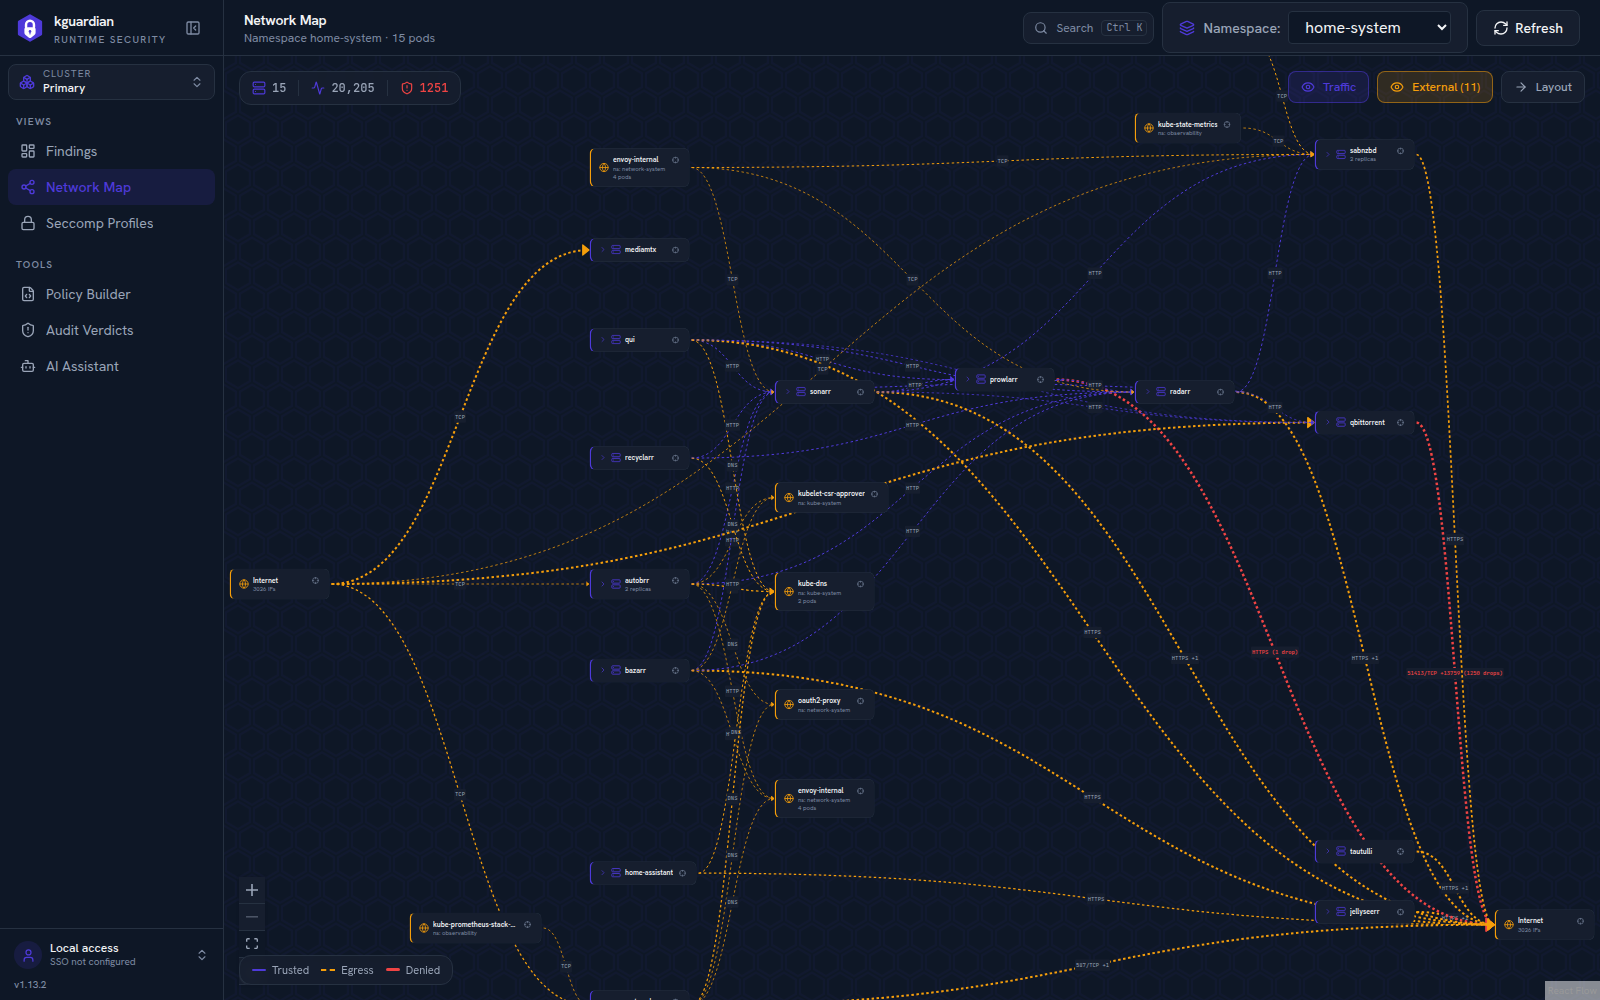
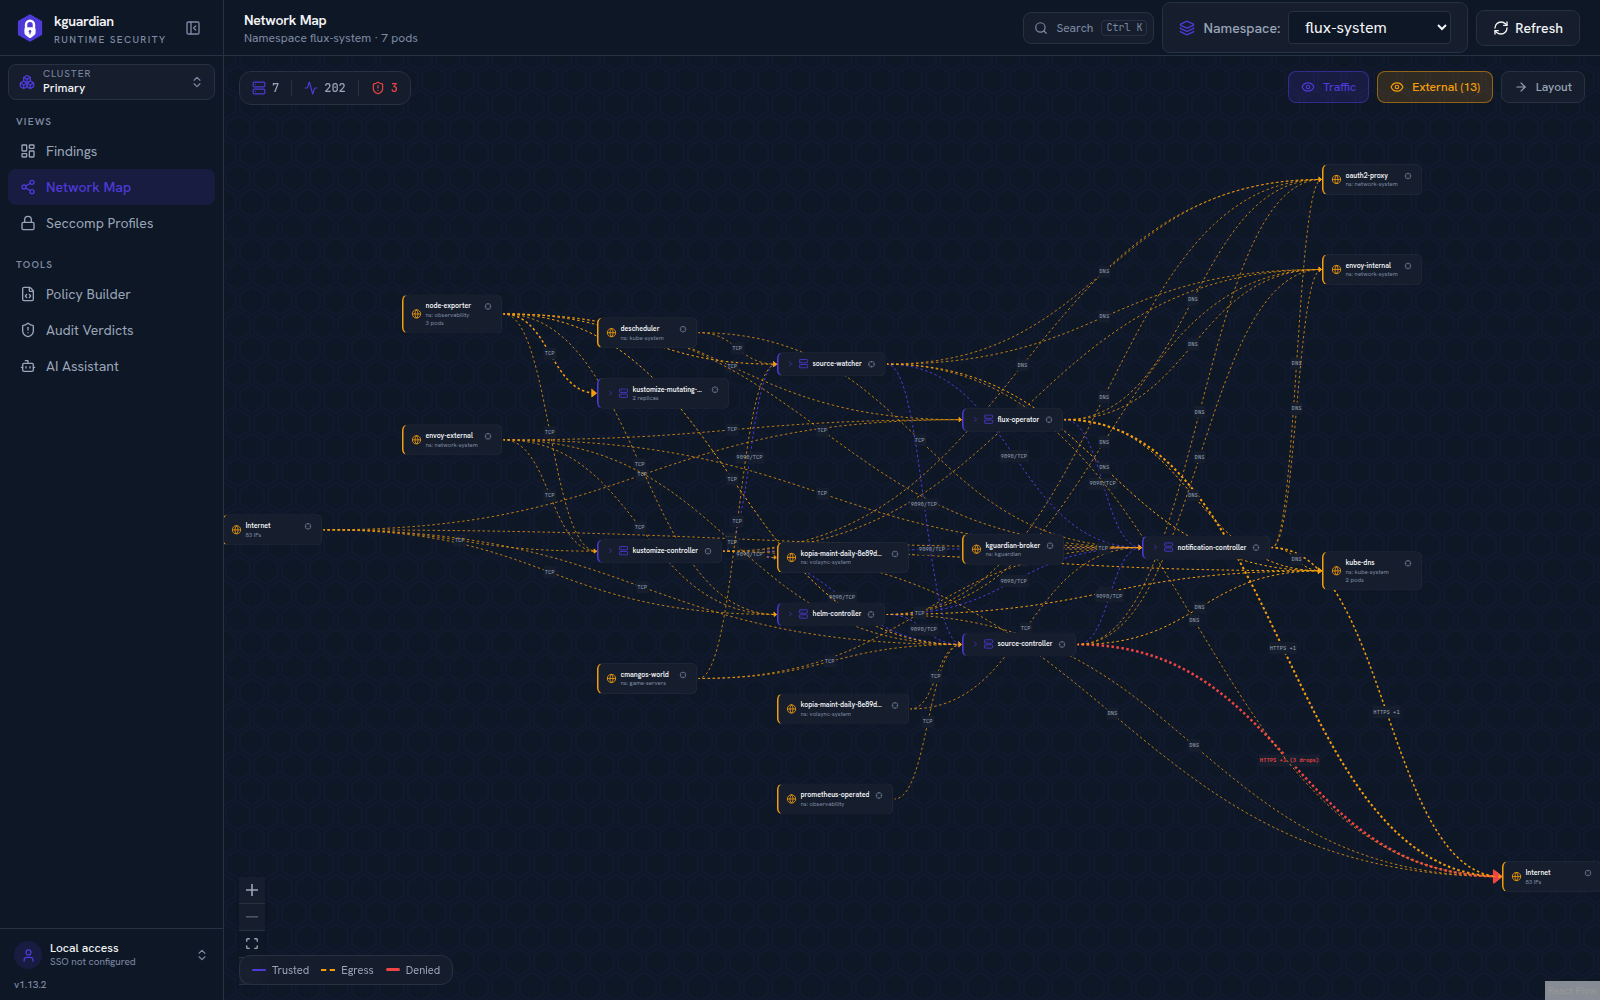
docs: README screenshots from flux-system and observability (#1438)
Replace the home-system captures with impersonal ones: the flux-system
Network Map, a Policy Builder run for helm-controller, and the Seccomp
Profiles drawer plus the Export CR modal for kube-state-metrics in
observability. The Audit Verdicts image is replaced by the export modal,
which shows the policy-as-code flow directly.

Claude-Session: https://claude.ai/code/session_01BcX4P65gFe8epvJWoWbHrE

diff --git a/README.md b/README.md
@@ -44,7 +44,7 @@ It's built for platform and security teams who want policy-as-code without writi
   <tr>
     <td width="50%" align="center">
       <a href="docs/images/readme/network-map.png"><img src="docs/images/readme/network-map.png" alt="Network Map: every observed flow in a namespace, with trusted, egress, and denied edges" /></a>
-      <br /><sub><b>Network Map</b> — every flow eBPF saw, in one graph: trusted, egress, and would-deny edges across a live namespace.</sub>
+      <br /><sub><b>Network Map</b> — every flow eBPF saw, in one graph: trusted, egress, and would-deny edges for a live namespace (here, Flux).</sub>
     </td>
     <td width="50%" align="center">
       <a href="docs/images/readme/policy-builder.png"><img src="docs/images/readme/policy-builder.png" alt="Policy Builder: a least-privilege NetworkPolicy generated from observed traffic" /></a>
@@ -54,11 +54,11 @@ It's built for platform and security teams who want policy-as-code without writi
   <tr>
     <td width="50%" align="center">
       <a href="docs/images/readme/seccomp-profiles.png"><img src="docs/images/readme/seccomp-profiles.png" alt="Seccomp Profiles: an enforcing SeccompProfile CR with node readiness and drift" /></a>
-      <br /><sub><b>Seccomp Profiles</b> — per-workload syscall allow-lists, exported as a CR you commit; readiness on every node and drift against the deployed profile.</sub>
+      <br /><sub><b>Seccomp Profiles</b> — per-workload syscall allow-lists with node readiness and drift against the deployed <code>SeccompProfile</code>, audit mode by default.</sub>
     </td>
     <td width="50%" align="center">
-      <a href="docs/images/readme/audit-verdicts.png"><img src="docs/images/readme/audit-verdicts.png" alt="Audit Verdicts: flows an AuditNetworkPolicy would deny, nothing dropped" /></a>
-      <br /><sub><b>Audit Verdicts</b> — see exactly which flows a policy <i>would</i> block before you enforce it. Nothing is dropped.</sub>
+      <a href="docs/images/readme/seccomp-export.png"><img src="docs/images/readme/seccomp-export.png" alt="Export a SeccompProfile CR: diff against the deployed CR and the manifest to commit" /></a>
+      <br /><sub><b>Policy as code</b> — export the <code>SeccompProfile</code> CR, see the diff against what is deployed, commit it. kguardian never applies anything itself.</sub>
     </td>
   </tr>
 </table>
